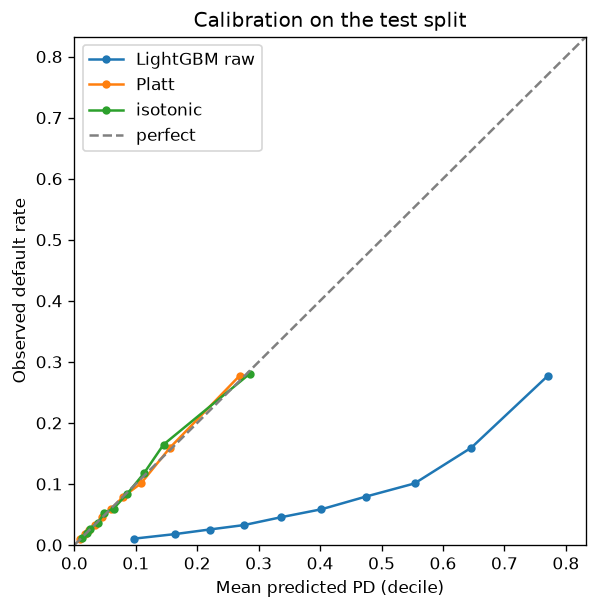
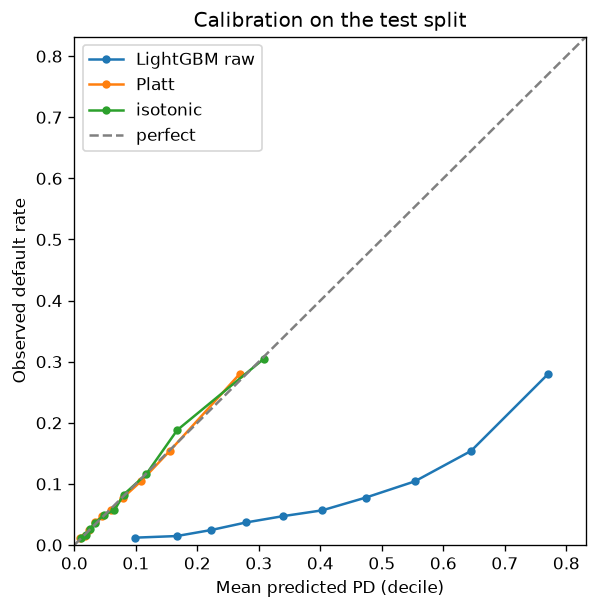
reports: re-run python -m src.model without CODE_GENDER
LightGBM ROC-AUC 0.770 -> 0.769, logistic 0.755 -> 0.752; the paired gap is
0.013 to 0.020. Calibration and the operating point barely move. Without the
column, calibrated PDs run above the observed rate for women (0.074 vs 0.070)
and below it for men (0.092 vs 0.102). Group subtitles in results.md are now
headings instead of bold text.

diff --git a/src/model.py b/src/model.py
@@ -258,7 +258,7 @@ def results_markdown(m: dict) -> str:
           f"| Implied by observed outcomes | {el['loss_implied_by_outcomes']:,.0f} |", "",
           f"## Group check at threshold {m['fairness']['threshold']:.3f}", ""]
     for key, title in [("gender", "CODE_GENDER"), ("age_band", "Age band")]:
-        L += [f"**{title}**", "",
+        L += [f"### {title}", "",
               "| Group | n | Observed default rate | Mean calibrated PD | Approval rate | TPR | FPR |",
               "|---|---|---|---|---|---|---|"]
         for r in m["fairness"][key]:

diff --git a/reports/results.md b/reports/results.md
@@ -2,18 +2,18 @@
 
 Generated by `python -m src.model`. Do not edit by hand.
 
-Rows used: 307,511 (train 184,506 / calibration 61,502 / test 61,503). Default rate 8.07%. 247 features after one-hot encoding.
+Rows used: 307,511 (train 184,506 / calibration 61,502 / test 61,503). Default rate 8.07%. 244 features after one-hot encoding. Kept out of the model (used only for the group check): CODE_GENDER.
 
 ## Ranking (test split, 95% bootstrap intervals)
 
 | Model | ROC-AUC | 95% CI | PR-AUC | 95% CI |
 |---|---|---|---|---|
-| Logistic regression | 0.755 | 0.748 to 0.761 | 0.229 | 0.219 to 0.240 |
-| LightGBM | 0.770 | 0.764 to 0.777 | 0.256 | 0.244 to 0.268 |
+| Logistic regression | 0.752 | 0.745 to 0.759 | 0.227 | 0.216 to 0.238 |
+| LightGBM | 0.769 | 0.762 to 0.775 | 0.254 | 0.242 to 0.265 |
 
-LightGBM minus logistic regression, paired: ROC-AUC 0.012 to 0.019, PR-AUC 0.020 to 0.032.
+LightGBM minus logistic regression, paired: ROC-AUC 0.013 to 0.020, PR-AUC 0.021 to 0.033.
 
-Logistic regression converged: True (223 of 2000 iterations).
+Logistic regression converged: True (227 of 2000 iterations).
 
 ## Calibration (LightGBM, test split)
 
@@ -21,65 +21,65 @@ Observed default rate on test: 8.07%.
 
 | PDs | Mean PD | Brier | ECE | ROC-AUC |
 |---|---|---|---|---|
-| raw | 0.394 | 0.1846 | 0.3134 | 0.770 |
-| platt | 0.080 | 0.0672 | 0.0026 | 0.770 |
-| isotonic | 0.080 | 0.0672 | 0.0033 | 0.770 |
+| raw | 0.395 | 0.1851 | 0.3145 | 0.769 |
+| platt | 0.080 | 0.0673 | 0.0032 | 0.769 |
+| isotonic | 0.080 | 0.0673 | 0.0027 | 0.768 |
 
-Logistic regression (class-weighted, uncalibrated), for reference: mean PD 0.421, Brier 0.2020, ECE 0.3399.
+Logistic regression (class-weighted, uncalibrated), for reference: mean PD 0.422, Brier 0.2026, ECE 0.3411.
 
 ## Threshold table (raw LightGBM score, test split)
 
 | Threshold | Precision | Recall | Flag rate |
 |---|---|---|---|
-| 0.30 | 0.119 | 0.898 | 0.610 |
-| 0.40 | 0.143 | 0.803 | 0.453 |
-| 0.50 | 0.176 | 0.687 | 0.316 |
-| 0.60 | 0.220 | 0.536 | 0.197 |
-| 0.70 | 0.279 | 0.339 | 0.098 |
+| 0.30 | 0.118 | 0.897 | 0.614 |
+| 0.40 | 0.142 | 0.800 | 0.455 |
+| 0.50 | 0.175 | 0.685 | 0.316 |
+| 0.60 | 0.220 | 0.532 | 0.196 |
+| 0.70 | 0.281 | 0.341 | 0.098 |
 
 ## Operating point
 
-Policy: decline the riskiest 20%. The raw-score threshold that does this on the calibration split is 0.599. On test it flags 19.7% of applicants, catches 53.7% of defaulters (recall), and 22.0% of those flagged did default (precision).
+Policy: decline the riskiest 20%. The raw-score threshold that does this on the calibration split is 0.600. On test it flags 19.5% of applicants, catches 53.2% of defaulters (recall), and 22.0% of those flagged did default (precision).
 
-## Expected loss at threshold 0.599 (ILLUSTRATIVE)
+## Expected loss at threshold 0.600 (ILLUSTRATIVE)
 
-LGD 45%, EAD = AMT_CREDIT. Approved share 80.3%.
+LGD 45%, EAD = AMT_CREDIT. Approved share 80.5%.
 
 | Source | Loss on approved loans |
 |---|---|
-| Raw PDs | 4,282,691,241 |
-| Isotonic-calibrated PDs | 636,702,144 |
-| Implied by observed outcomes | 621,087,631 |
+| Raw PDs | 4,312,985,709 |
+| Isotonic-calibrated PDs | 642,168,648 |
+| Implied by observed outcomes | 633,364,511 |
 
-## Group check at threshold 0.599
+## Group check at threshold 0.600
 
-**CODE_GENDER**
-
-| Group | n | Observed default rate | Mean calibrated PD | Approval rate | TPR | FPR |
-|---|---|---|---|---|---|---|
-| F | 40,345 | 0.070 | 0.070 | 0.845 | 0.475 | 0.131 |
-| M | 21,158 | 0.102 | 0.099 | 0.723 | 0.617 | 0.239 |
-
-**Age band**
+### CODE_GENDER
 
 | Group | n | Observed default rate | Mean calibrated PD | Approval rate | TPR | FPR |
 |---|---|---|---|---|---|---|
-| 20-29 | 8,975 | 0.115 | 0.116 | 0.646 | 0.675 | 0.312 |
-| 30-44 | 24,664 | 0.090 | 0.088 | 0.774 | 0.581 | 0.191 |
-| 45-59 | 20,778 | 0.066 | 0.066 | 0.858 | 0.437 | 0.120 |
-| 60+ | 7,086 | 0.048 | 0.047 | 0.941 | 0.238 | 0.050 |
+| F | 40,345 | 0.070 | 0.074 | 0.832 | 0.492 | 0.144 |
+| M | 21,158 | 0.102 | 0.092 | 0.752 | 0.583 | 0.209 |
+
+### Age band
+
+| Group | n | Observed default rate | Mean calibrated PD | Approval rate | TPR | FPR |
+|---|---|---|---|---|---|---|
+| 20-29 | 8,975 | 0.115 | 0.116 | 0.650 | 0.679 | 0.307 |
+| 30-44 | 24,664 | 0.090 | 0.088 | 0.774 | 0.578 | 0.191 |
+| 45-59 | 20,778 | 0.066 | 0.066 | 0.860 | 0.429 | 0.120 |
+| 60+ | 7,086 | 0.048 | 0.047 | 0.946 | 0.202 | 0.047 |
 
 ## Top 10 features by mean |SHAP| (LightGBM, 2,000 test rows)
 
-1. `EXT_SOURCE_3` (0.367)
-2. `EXT_SOURCE_2` (0.327)
-3. `ANNUITY_CREDIT_RATIO` (0.171)
-4. `EXT_SOURCE_1` (0.170)
-5. `AMT_GOODS_PRICE` (0.116)
-6. `DAYS_EMPLOYED` (0.112)
-7. `AMT_ANNUITY` (0.079)
-8. `CODE_GENDER_F` (0.075)
-9. `NAME_EDUCATION_TYPE_Higher education` (0.075)
-10. `DAYS_BIRTH` (0.067)
+1. `EXT_SOURCE_3` (0.363)
+2. `EXT_SOURCE_2` (0.333)
+3. `EXT_SOURCE_1` (0.183)
+4. `ANNUITY_CREDIT_RATIO` (0.171)
+5. `AMT_GOODS_PRICE` (0.117)
+6. `DAYS_EMPLOYED` (0.115)
+7. `AMT_ANNUITY` (0.088)
+8. `NAME_EDUCATION_TYPE_Higher education` (0.078)
+9. `DAYS_BIRTH` (0.066)
+10. `AMT_CREDIT` (0.060)
 
-Run time: 151.5 s.
+Run time: 149.3 s.
